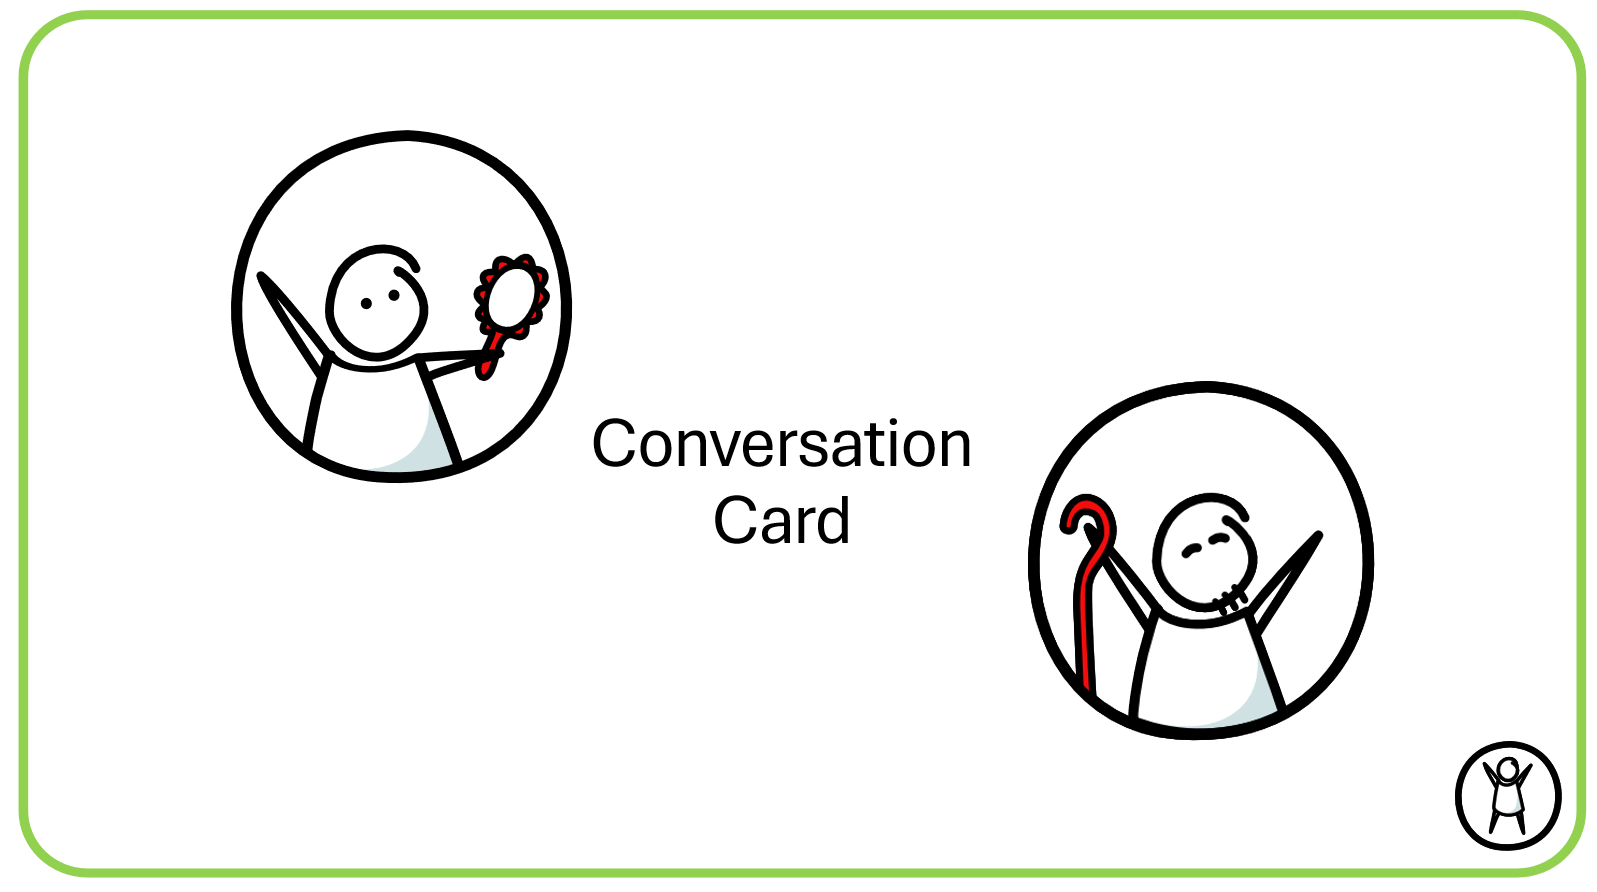
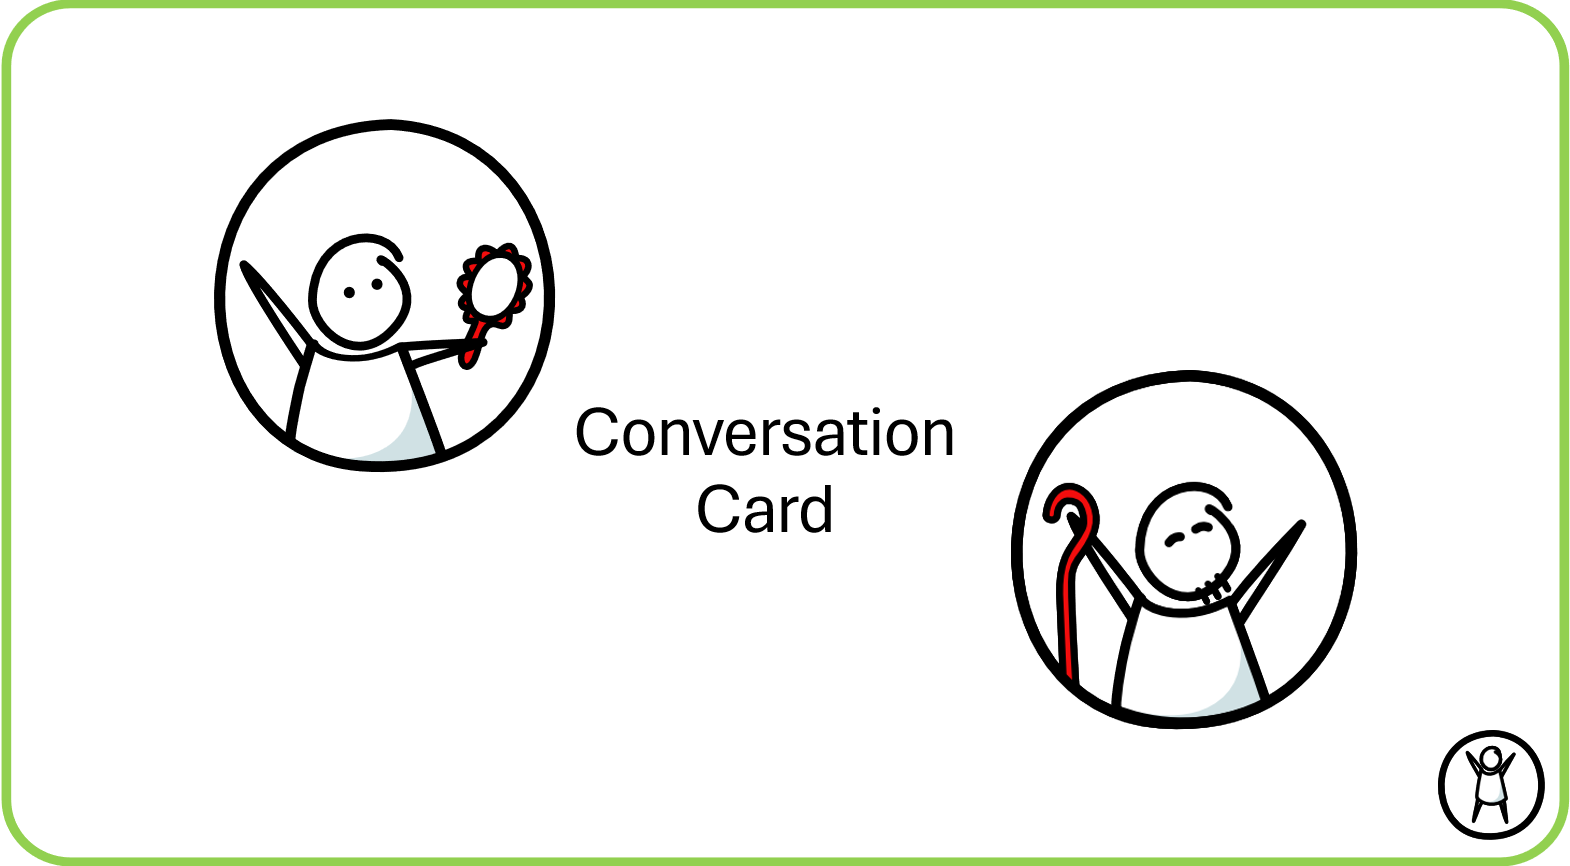
Add new images for conversation and winner cards; update HTML and CSS for improved layout and readability

diff --git a/index.html b/index.html
@@ -155,9 +155,9 @@
     <div class="section-inner">
       <p class="eyebrow game-card-counts">48 Illustraction Cards - 6 Conversation Cards - 12 Winner Cards</p>
       <div class="game-card-gallery">
-        <img src="images/Generous - Superpower.svg" alt="Generous superpower card">
         <img src="images/Grateful - Donut - Final.svg" alt="Grateful donut card">
-        <img src="images/Greatness - Learn from Mistake.svg" alt="Greatness learn from mistakes card">
+        <img src="images/conversation-card.png" alt="Conversation card">
+        <img src="images/winner.png" alt="Winner card">
       </div>
     </div>
   </section>

diff --git a/style.css b/style.css
@@ -366,6 +366,7 @@
     .paths > .section-inner > .eyebrow {
       text-align: center;
       margin: 0 0 0.6rem;
+      font-size: 1.5rem;
     }
 
     .paths h2 {
@@ -626,6 +627,7 @@
       display: block;
       color: var(--blue);
       margin-bottom: 1.25rem;
+      font-size: 1.5rem;
     }
 
     #game-heading {
